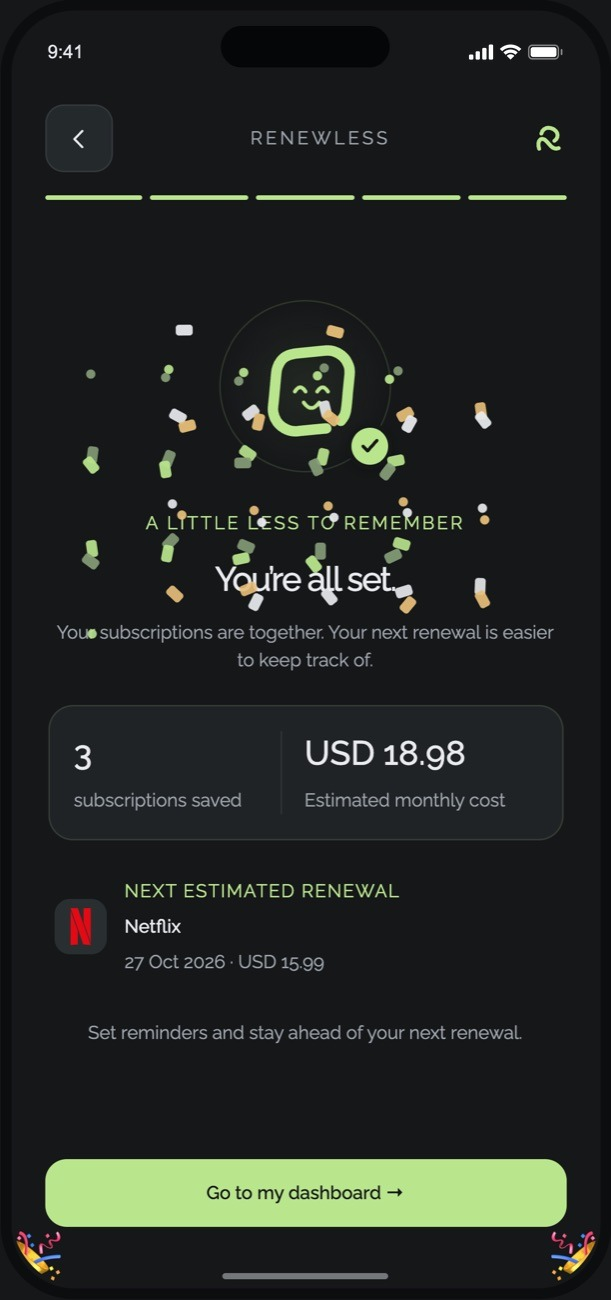
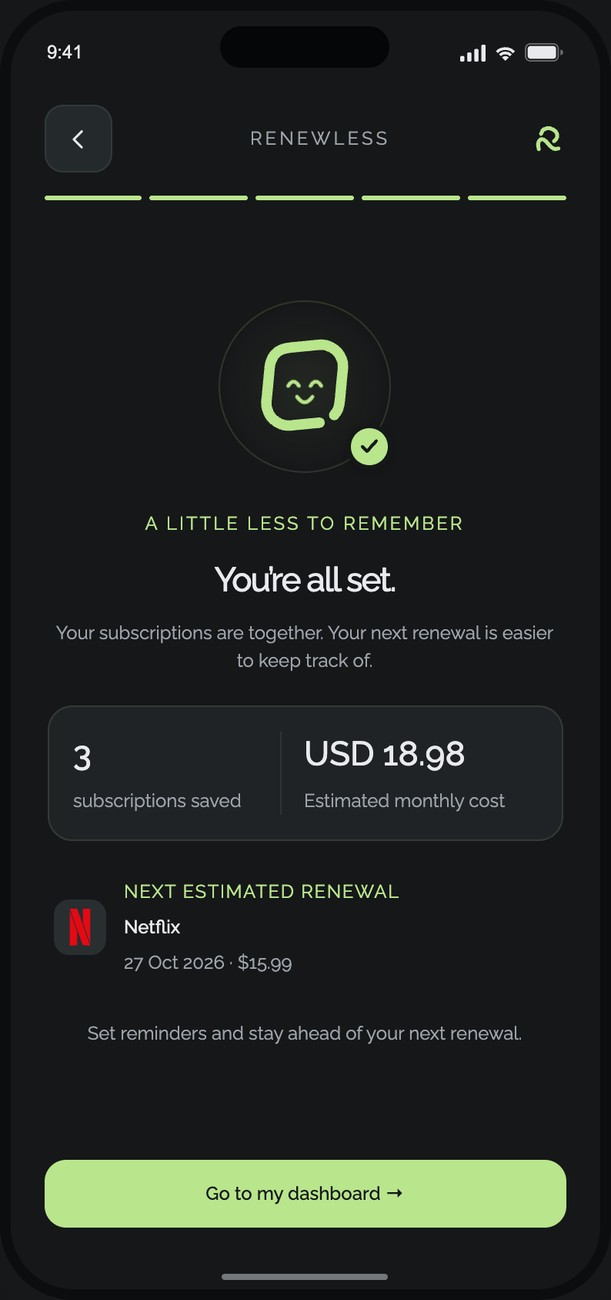
Share image says Gmail or Outlook; new Widgets and Ready to go screenshots

diff --git a/public/index.html b/public/index.html
@@ -12,11 +12,11 @@
   <meta property="og:site_name" content="Renewless">
   <meta property="og:title" content="Renewless · Connect Gmail or Outlook. See every subscription.">
   <meta property="og:description" content="Connect Gmail or Outlook and Renewless lists your subscriptions and free trials for you, then reminds you before they renew. No bank login, no typing. Every feature is free.">
-  <meta property="og:image" content="https://renewlessapp.com/og.png">
+  <meta property="og:image" content="https://renewlessapp.com/og.png?v=20261116">
   <meta property="og:image:width" content="1200">
   <meta property="og:image:height" content="630">
   <meta name="twitter:card" content="summary_large_image">
-  <meta name="twitter:image" content="https://renewlessapp.com/og.png">
+  <meta name="twitter:image" content="https://renewlessapp.com/og.png?v=20261116">
   <script type="application/ld+json">
   {
     "@context": "https://schema.org",
@@ -105,7 +105,7 @@
               <i class="cover"></i><i class="cover"></i>
               <span class="slot"></span><span class="slot"></span><span class="slot"></span>
             </div>
-            <img class="ps ps-ready" src="/screens/ready-to-go.jpg?v=20261116" alt="Renewless: ready to go" width="611" height="1300" loading="lazy">
+            <img class="ps ps-ready" src="/screens/ready-to-go.jpg?v=20261116b" alt="Renewless: ready to go" width="611" height="1300" loading="lazy">
             <button class="go connect" type="button" data-hint="Tap to try" aria-label="Connect Gmail (demo)"></button>
             <button class="go outlook" type="button" aria-label="Connect Outlook (demo)"></button>
             <button class="go save" type="button" data-hint="Review, then save" aria-label="Save 3 subscriptions (demo)"></button>
@@ -204,7 +204,7 @@
             <img src="/screens/connect-inbox.jpg?v=20261116" alt="" width="611" height="1300" loading="lazy">
             <img src="/screens/discovering.jpg?v=20261116" alt="" width="611" height="1300" loading="lazy">
             <img src="/screens/your-subscriptions.jpg?v=20261116" alt="" width="611" height="1300" loading="lazy">
-            <img src="/screens/ready-to-go.jpg?v=20261116" alt="" width="611" height="1300" loading="lazy">
+            <img src="/screens/ready-to-go.jpg?v=20261116b" alt="" width="611" height="1300" loading="lazy">
           </div>
           <ol class="flow-steps" data-reveal="right">
             <li><h3>Connect your inbox</h3>Choose Gmail or Outlook and allow read-only access. Renewless cannot send or delete mail.</li>
@@ -294,7 +294,7 @@
             <li><svg width="18" height="18" viewBox="0 0 24 24" fill="none" stroke="#b9e58c" stroke-width="2.5" stroke-linecap="round" aria-hidden="true"><path d="M5 12.5l4.5 4.5L19 7.5"/></svg>Refreshes through the day</li>
           </ul>
         </div>
-        <div class="device tilt" data-reveal="right"><img src="/screens/widgets.jpg?v=20261116" alt="iPhone Home Screen with the Renewless widget showing Netflix due today, USD 15.99" width="611" height="1300" loading="lazy"></div>
+        <div class="device tilt" data-reveal="right"><img src="/screens/widgets.jpg?v=20261116b" alt="iPhone Home Screen with the Renewless widget showing Netflix due today, USD 15.99" width="611" height="1300" loading="lazy"></div>
       </div>
     </section>
 

diff --git a/public/og-source.html b/public/og-source.html
@@ -6,12 +6,12 @@
   <meta name="robots" content="noindex">
   <link rel="stylesheet" href="/styles.css">
   <style>
-    body { width: 1200px; height: 630px; overflow: hidden; display: grid; grid-template-columns: 1fr 420px; align-items: center; padding: 0 72px; gap: 40px; }
+    body { width: 1200px; height: 630px; overflow: hidden; display: grid; grid-template-columns: 1fr 380px; align-items: center; padding: 0 72px; gap: 40px; }
     .t { display: flex; flex-direction: column; gap: 24px; }
     .t .wordmark { font-size: 30px; }
     .t .wordmark img { width: 48px; height: 48px; border-radius: 12px; }
-    h1 { font-size: 58px; line-height: 1.1; }
-    h1 em { font-style: normal; color: var(--accent); }
+    h1 { font-size: 48px; line-height: 1.12; }
+    h1 em { display: block; font-style: normal; color: var(--accent); }
     p { color: var(--secondary); font-size: 24px; }
     .phones { position: relative; height: 630px; }
     .phones .device { position: absolute; width: 270px; box-shadow: none; }
@@ -22,7 +22,7 @@
 <body>
   <div class="t">
     <span class="wordmark"><img src="/favicon.svg" alt="">Renewless</span>
-    <h1>Connect Gmail. <em>See every subscription.</em></h1>
+    <h1>Connect Gmail or Outlook. <em>See every subscription.</em></h1>
     <p>No bank login · No typing · Free</p>
   </div>
   <div class="phones">
